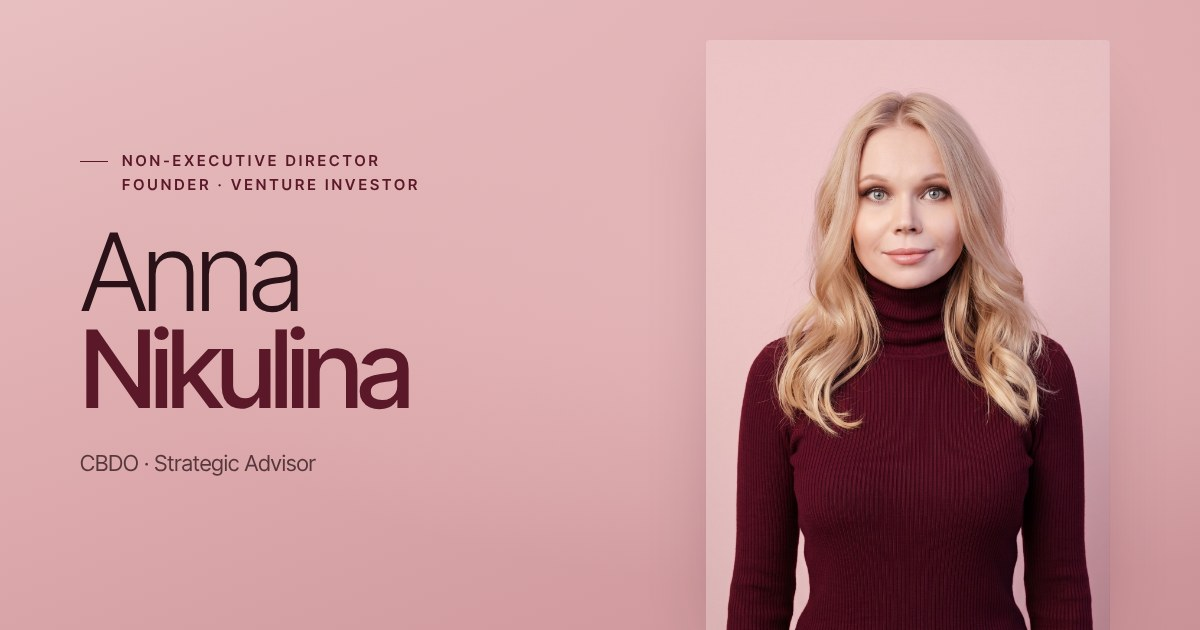
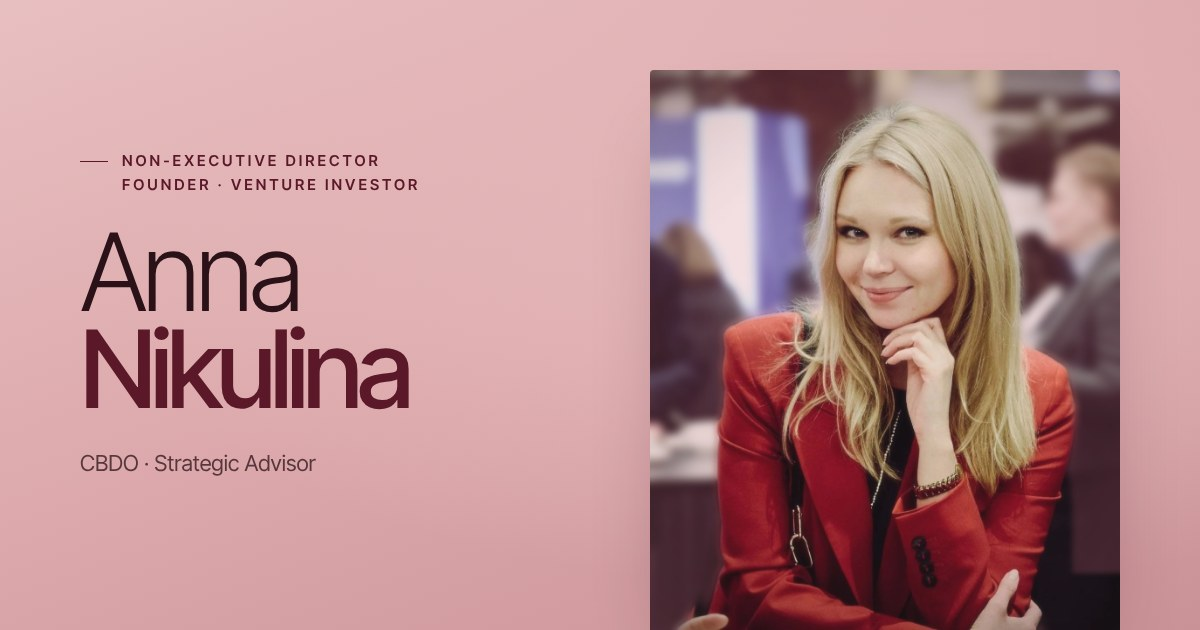
New portrait: event photo with light background blur and soft rose grade; original kept
Claude-Session: https://claude.ai/code/session_017zF6NKWSFQoNCEWFPX3gsG

Changed region(s): [[0.5242, 0.0905, 0.9558, 1.0]]

diff --git a/annanikulina/index.html b/annanikulina/index.html
@@ -24,7 +24,7 @@
 <link rel="me" href="https://www.youtube.com/@STRATEGYNikulina">
 <link rel="me" href="https://rutube.ru/channel/30327202">
 <link rel="sitemap" type="application/xml" href="https://www.annanikulina.pro/sitemap.xml">
-<script type="application/ld+json">{"@context":"https://schema.org","@graph":[{"@type":"ProfilePage","@id":"https://www.annanikulina.pro/annanikulina/#page","url":"https://www.annanikulina.pro/annanikulina/","name":"Анна Никулина | Независимый директор, Advisory Board, венчурный инвестор","description":"Анна Никулина: независимый директор, Advisory Board Member, венчурный инвестор. 13+ лет в банках ТОП-10 РФ. Корпоративное управление, риски, финтех, MENA.","inLanguage":"ru-RU","dateModified":"2026-11-23","isPartOf":{"@id":"https://www.annanikulina.pro/#website"},"mainEntity":{"@id":"https://www.annanikulina.pro/#person"},"primaryImageOfPage":"https://www.annanikulina.pro/assets/img/anna-portrait.jpg"},{"@type":"WebSite","@id":"https://www.annanikulina.pro/#website","url":"https://www.annanikulina.pro/","name":"Анна Никулина","inLanguage":["ru-RU","en-US"]},{"@type":"Person","@id":"https://www.annanikulina.pro/#person","name":"Анна Никулина","alternateName":["Anna Nikulina"],"givenName":"Анна","familyName":"Никулина","url":"https://www.annanikulina.pro/annanikulina/","image":"https://www.annanikulina.pro/assets/img/anna-portrait.jpg","description":"Анна Никулина: независимый директор, Advisory Board Member, венчурный инвестор. 13+ лет в банках ТОП-10 РФ. Корпоративное управление, риски, финтех, MENA.","jobTitle":["Независимый директор","Основатель","Advisory Board Member","Советник по стратегическому развитию","Директор по развитию","Венчурный инвестор"],"knowsAbout":["Корпоративное управление","Работа совета директоров","Независимый директор","Риск-менеджмент","Кредитные риски","Корпоративное кредитование","Антикризисное управление","Стратегическое развитие бизнеса","Венчурные инвестиции","Финтех","Краудфандинг","M&A","Due diligence","Цифровая трансформация","Рынок MENA","GR и регулирование"],"knowsLanguage":["ru","en"],"memberOf":{"@type":"Organization","name":"Ассоциация независимых директоров (АНД)"},"homeLocation":{"@type":"Place","name":"Москва"},"sameAs":["https://www.linkedin.com/in/anna-nikulina-cbdo/","https://t.me/STRATEGYNikulina","https://t.me/Anna_Niku","https://www.youtube.com/@STRATEGYNikulina","https://rutube.ru/channel/30327202"]},{"@type":"ItemList","name":"Видео","itemListElement":[{"@type":"ListItem","position":1,"item":{"@type":"VideoObject","name":"Субсидиарная ответственность членов СД и собственников","description":"Субсидиарная ответственность членов СД и собственников. Гость: Павел Викторов","embedUrl":"https://rutube.ru/play/embed/118d6fa9727639e5040512ae6d32b4be","url":"https://rutube.ru/video/118d6fa9727639e5040512ae6d32b4be/"}},{"@type":"ListItem","position":2,"item":{"@type":"VideoObject","name":"Революция роботов","description":"Революция роботов. Гость: Артём Лукин","embedUrl":"https://rutube.ru/play/embed/0f608d7f2b0e4aaa801a74142903122b","url":"https://rutube.ru/video/0f608d7f2b0e4aaa801a74142903122b/"}},{"@type":"ListItem","position":3,"item":{"@type":"VideoObject","name":"Дом как сервис","description":"Дом как сервис. Гость: Артём Бабинов","embedUrl":"https://rutube.ru/play/embed/82245c10c63797b9d4839cec6b54728c","url":"https://rutube.ru/video/82245c10c63797b9d4839cec6b54728c/"}},{"@type":"ListItem","position":4,"item":{"@type":"VideoObject","name":"За кулисами M&A","description":"За кулисами M&A. Гость: Иван Скавыш","embedUrl":"https://rutube.ru/play/embed/9c4bf61b043f1e9871b5e467088dbe60","url":"https://rutube.ru/video/9c4bf61b043f1e9871b5e467088dbe60/"}},{"@type":"ListItem","position":5,"item":{"@type":"VideoObject","name":"Стратегия загородной жизни","description":"Стратегия загородной жизни. Гость: Евгений Антифеев","embedUrl":"https://rutube.ru/play/embed/722f7eb517eb702874613efbd3f16c28","url":"https://rutube.ru/video/722f7eb517eb702874613efbd3f16c28/"}},{"@type":"ListItem","position":6,"item":{"@type":"VideoObject","name":"Искусственный интеллект: билет в будущее","description":"Искусственный интеллект: билет в будущее. Гость: Тимур Эль-Гохари","embedUrl":"https://rutube.ru/play/embed/aa2cad4c1103fe543607f4f6108b470c","url":"https://rutube.ru/video/aa2cad4c1103fe543607f4f6108b470c/"}},{"@type":"ListItem","position":7,"item":{"@type":"VideoObject","name":"Как вывести бизнес в Китай","description":"Как вывести бизнес в Китай. Гость: Виктор Соковнин","embedUrl":"https://rutube.ru/play/embed/4b83cb5bb370456e2c958657fe2ba707","url":"https://rutube.ru/video/4b83cb5bb370456e2c958657fe2ba707/"}}]}]}</script>
+<script type="application/ld+json">{"@context":"https://schema.org","@graph":[{"@type":"ProfilePage","@id":"https://www.annanikulina.pro/annanikulina/#page","url":"https://www.annanikulina.pro/annanikulina/","name":"Анна Никулина | Независимый директор, Advisory Board, венчурный инвестор","description":"Анна Никулина: независимый директор, Advisory Board Member, венчурный инвестор. 13+ лет в банках ТОП-10 РФ. Корпоративное управление, риски, финтех, MENA.","inLanguage":"ru-RU","dateModified":"2026-11-23","isPartOf":{"@id":"https://www.annanikulina.pro/#website"},"mainEntity":{"@id":"https://www.annanikulina.pro/#person"},"primaryImageOfPage":"https://www.annanikulina.pro/assets/img/anna-portrait-event.jpg"},{"@type":"WebSite","@id":"https://www.annanikulina.pro/#website","url":"https://www.annanikulina.pro/","name":"Анна Никулина","inLanguage":["ru-RU","en-US"]},{"@type":"Person","@id":"https://www.annanikulina.pro/#person","name":"Анна Никулина","alternateName":["Anna Nikulina"],"givenName":"Анна","familyName":"Никулина","url":"https://www.annanikulina.pro/annanikulina/","image":"https://www.annanikulina.pro/assets/img/anna-portrait-event.jpg","description":"Анна Никулина: независимый директор, Advisory Board Member, венчурный инвестор. 13+ лет в банках ТОП-10 РФ. Корпоративное управление, риски, финтех, MENA.","jobTitle":["Независимый директор","Основатель","Advisory Board Member","Советник по стратегическому развитию","Директор по развитию","Венчурный инвестор"],"knowsAbout":["Корпоративное управление","Работа совета директоров","Независимый директор","Риск-менеджмент","Кредитные риски","Корпоративное кредитование","Антикризисное управление","Стратегическое развитие бизнеса","Венчурные инвестиции","Финтех","Краудфандинг","M&A","Due diligence","Цифровая трансформация","Рынок MENA","GR и регулирование"],"knowsLanguage":["ru","en"],"memberOf":{"@type":"Organization","name":"Ассоциация независимых директоров (АНД)"},"homeLocation":{"@type":"Place","name":"Москва"},"sameAs":["https://www.linkedin.com/in/anna-nikulina-cbdo/","https://t.me/STRATEGYNikulina","https://t.me/Anna_Niku","https://www.youtube.com/@STRATEGYNikulina","https://rutube.ru/channel/30327202"]},{"@type":"ItemList","name":"Видео","itemListElement":[{"@type":"ListItem","position":1,"item":{"@type":"VideoObject","name":"Субсидиарная ответственность членов СД и собственников","description":"Субсидиарная ответственность членов СД и собственников. Гость: Павел Викторов","embedUrl":"https://rutube.ru/play/embed/118d6fa9727639e5040512ae6d32b4be","url":"https://rutube.ru/video/118d6fa9727639e5040512ae6d32b4be/"}},{"@type":"ListItem","position":2,"item":{"@type":"VideoObject","name":"Революция роботов","description":"Революция роботов. Гость: Артём Лукин","embedUrl":"https://rutube.ru/play/embed/0f608d7f2b0e4aaa801a74142903122b","url":"https://rutube.ru/video/0f608d7f2b0e4aaa801a74142903122b/"}},{"@type":"ListItem","position":3,"item":{"@type":"VideoObject","name":"Дом как сервис","description":"Дом как сервис. Гость: Артём Бабинов","embedUrl":"https://rutube.ru/play/embed/82245c10c63797b9d4839cec6b54728c","url":"https://rutube.ru/video/82245c10c63797b9d4839cec6b54728c/"}},{"@type":"ListItem","position":4,"item":{"@type":"VideoObject","name":"За кулисами M&A","description":"За кулисами M&A. Гость: Иван Скавыш","embedUrl":"https://rutube.ru/play/embed/9c4bf61b043f1e9871b5e467088dbe60","url":"https://rutube.ru/video/9c4bf61b043f1e9871b5e467088dbe60/"}},{"@type":"ListItem","position":5,"item":{"@type":"VideoObject","name":"Стратегия загородной жизни","description":"Стратегия загородной жизни. Гость: Евгений Антифеев","embedUrl":"https://rutube.ru/play/embed/722f7eb517eb702874613efbd3f16c28","url":"https://rutube.ru/video/722f7eb517eb702874613efbd3f16c28/"}},{"@type":"ListItem","position":6,"item":{"@type":"VideoObject","name":"Искусственный интеллект: билет в будущее","description":"Искусственный интеллект: билет в будущее. Гость: Тимур Эль-Гохари","embedUrl":"https://rutube.ru/play/embed/aa2cad4c1103fe543607f4f6108b470c","url":"https://rutube.ru/video/aa2cad4c1103fe543607f4f6108b470c/"}},{"@type":"ListItem","position":7,"item":{"@type":"VideoObject","name":"Как вывести бизнес в Китай","description":"Как вывести бизнес в Китай. Гость: Виктор Соковнин","embedUrl":"https://rutube.ru/play/embed/4b83cb5bb370456e2c958657fe2ba707","url":"https://rutube.ru/video/4b83cb5bb370456e2c958657fe2ba707/"}}]}]}</script>
 <meta property="og:title" content="Анна Никулина | Независимый директор, Advisory Board, венчурный инвестор">
 <meta property="og:description" content="Анна Никулина: независимый директор, Advisory Board Member, венчурный инвестор. 13+ лет в банках ТОП-10 РФ. Корпоративное управление, риски, финтех, MENA.">
 <meta property="og:url" content="https://www.annanikulina.pro/annanikulina/">
@@ -38,7 +38,7 @@
 <meta name="twitter:image" content="https://www.annanikulina.pro/assets/img/og-cover.jpg">
 <link rel="icon" href="../assets/img/favicon.svg" type="image/svg+xml">
 <link rel="preload" href="../assets/fonts/inter-tight-cyrillic-300-normal.woff2" as="font" type="font/woff2" crossorigin>
-<link rel="preload" as="image" href="../assets/img/anna-portrait.jpg">
+<link rel="preload" as="image" href="../assets/img/anna-portrait-event.jpg">
 <link rel="stylesheet" href="../assets/site.css">
 <script>document.documentElement.classList.add('js')</script>
 </head>
@@ -67,7 +67,7 @@
         </div>
       </div>
       <div class="photo reveal d2" data-speed="-0.2">
-        <img src="../assets/img/anna-portrait.jpg" alt="Анна Никулина" width="1368" height="2000" fetchpriority="high">
+        <img src="../assets/img/anna-portrait-event.jpg" alt="Анна Никулина" width="1075" height="1280" fetchpriority="high">
         <div class="photo-tag"><b>15+</b>лет в управлении</div>
       </div>
     </div>

diff --git a/en/index.html b/en/index.html
@@ -24,7 +24,7 @@
 <link rel="me" href="https://www.youtube.com/@STRATEGYNikulina">
 <link rel="me" href="https://rutube.ru/channel/30327202">
 <link rel="sitemap" type="application/xml" href="https://www.annanikulina.pro/sitemap.xml">
-<script type="application/ld+json">{"@context":"https://schema.org","@graph":[{"@type":"ProfilePage","@id":"https://www.annanikulina.pro/en/#page","url":"https://www.annanikulina.pro/en/","name":"Anna Nikulina | Non-Executive Director & Venture Investor","description":"Anna Nikulina: non-executive director, advisory board member, venture investor. 13+ years at top-10 Russian banks. Governance, risk, fintech, MENA.","inLanguage":"en-US","dateModified":"2026-11-23","isPartOf":{"@id":"https://www.annanikulina.pro/#website"},"mainEntity":{"@id":"https://www.annanikulina.pro/#person"},"primaryImageOfPage":"https://www.annanikulina.pro/assets/img/anna-portrait.jpg"},{"@type":"WebSite","@id":"https://www.annanikulina.pro/#website","url":"https://www.annanikulina.pro/","name":"Anna Nikulina","inLanguage":["ru-RU","en-US"]},{"@type":"Person","@id":"https://www.annanikulina.pro/#person","name":"Anna Nikulina","alternateName":["Анна Никулина"],"givenName":"Anna","familyName":"Nikulina","url":"https://www.annanikulina.pro/en/","image":"https://www.annanikulina.pro/assets/img/anna-portrait.jpg","description":"Anna Nikulina: non-executive director, advisory board member, venture investor. 13+ years at top-10 Russian banks. Governance, risk, fintech, MENA.","jobTitle":["Non-Executive Director","Founder","Advisory Board Member","Strategic Advisor","Chief Business Development Officer","Venture Investor"],"knowsAbout":["Corporate governance","Board of directors","Non-executive director","Risk management","Credit risk","Corporate lending","Crisis management","Business strategy","Venture capital","Fintech","Crowdfunding","Mergers and acquisitions","Due diligence","Digital transformation","MENA markets","Regulatory policy"],"knowsLanguage":["ru","en"],"memberOf":{"@type":"Organization","name":"Association of Independent Directors (AID), Russia"},"homeLocation":{"@type":"Place","name":"Moscow"},"sameAs":["https://www.linkedin.com/in/anna-nikulina-cbdo/","https://t.me/STRATEGYNikulina","https://t.me/Anna_Niku","https://www.youtube.com/@STRATEGYNikulina","https://rutube.ru/channel/30327202"]},{"@type":"ItemList","name":"Videos","itemListElement":[{"@type":"ListItem","position":1,"item":{"@type":"VideoObject","name":"Subsidiary liability of board members and owners","description":"Subsidiary liability of board members and owners. Guest: Pavel Viktorov","embedUrl":"https://www.youtube-nocookie.com/embed/cvLB6uWxBnk","url":"https://www.youtube.com/watch?v=cvLB6uWxBnk","thumbnailUrl":"https://i.ytimg.com/vi/cvLB6uWxBnk/hqdefault.jpg"}},{"@type":"ListItem","position":2,"item":{"@type":"VideoObject","name":"The robot revolution","description":"The robot revolution. Guest: Artem Lukin","embedUrl":"https://www.youtube-nocookie.com/embed/VuuB7uzdvwo","url":"https://www.youtube.com/watch?v=VuuB7uzdvwo","thumbnailUrl":"https://i.ytimg.com/vi/VuuB7uzdvwo/hqdefault.jpg"}},{"@type":"ListItem","position":3,"item":{"@type":"VideoObject","name":"Home as a service","description":"Home as a service. Guest: Artem Babinov","embedUrl":"https://www.youtube-nocookie.com/embed/n84INQQOz0Q","url":"https://www.youtube.com/watch?v=n84INQQOz0Q","thumbnailUrl":"https://i.ytimg.com/vi/n84INQQOz0Q/hqdefault.jpg"}},{"@type":"ListItem","position":4,"item":{"@type":"VideoObject","name":"Behind the scenes of M&A","description":"Behind the scenes of M&A. Guest: Ivan Skavysh","embedUrl":"https://www.youtube-nocookie.com/embed/jWN5XPts_jQ","url":"https://www.youtube.com/watch?v=jWN5XPts_jQ","thumbnailUrl":"https://i.ytimg.com/vi/jWN5XPts_jQ/hqdefault.jpg"}},{"@type":"ListItem","position":5,"item":{"@type":"VideoObject","name":"A strategy for country living","description":"A strategy for country living. Guest: Evgeny Antifeev","embedUrl":"https://www.youtube-nocookie.com/embed/KyPmCVrwbLU","url":"https://www.youtube.com/watch?v=KyPmCVrwbLU","thumbnailUrl":"https://i.ytimg.com/vi/KyPmCVrwbLU/hqdefault.jpg"}},{"@type":"ListItem","position":6,"item":{"@type":"VideoObject","name":"Artificial intelligence: a ticket to the future","description":"Artificial intelligence: a ticket to the future. Guest: Timur El-Gohary","embedUrl":"https://www.youtube-nocookie.com/embed/8VpxzIJPAVs","url":"https://www.youtube.com/watch?v=8VpxzIJPAVs","thumbnailUrl":"https://i.ytimg.com/vi/8VpxzIJPAVs/hqdefault.jpg"}},{"@type":"ListItem","position":7,"item":{"@type":"VideoObject","name":"How to expand your business into China","description":"How to expand your business into China. Guest: Viktor Sokovnin","embedUrl":"https://www.youtube-nocookie.com/embed/xlhwJ3_e-nw","url":"https://www.youtube.com/watch?v=xlhwJ3_e-nw","thumbnailUrl":"https://i.ytimg.com/vi/xlhwJ3_e-nw/hqdefault.jpg"}}]}]}</script>
+<script type="application/ld+json">{"@context":"https://schema.org","@graph":[{"@type":"ProfilePage","@id":"https://www.annanikulina.pro/en/#page","url":"https://www.annanikulina.pro/en/","name":"Anna Nikulina | Non-Executive Director & Venture Investor","description":"Anna Nikulina: non-executive director, advisory board member, venture investor. 13+ years at top-10 Russian banks. Governance, risk, fintech, MENA.","inLanguage":"en-US","dateModified":"2026-11-23","isPartOf":{"@id":"https://www.annanikulina.pro/#website"},"mainEntity":{"@id":"https://www.annanikulina.pro/#person"},"primaryImageOfPage":"https://www.annanikulina.pro/assets/img/anna-portrait-event.jpg"},{"@type":"WebSite","@id":"https://www.annanikulina.pro/#website","url":"https://www.annanikulina.pro/","name":"Anna Nikulina","inLanguage":["ru-RU","en-US"]},{"@type":"Person","@id":"https://www.annanikulina.pro/#person","name":"Anna Nikulina","alternateName":["Анна Никулина"],"givenName":"Anna","familyName":"Nikulina","url":"https://www.annanikulina.pro/en/","image":"https://www.annanikulina.pro/assets/img/anna-portrait-event.jpg","description":"Anna Nikulina: non-executive director, advisory board member, venture investor. 13+ years at top-10 Russian banks. Governance, risk, fintech, MENA.","jobTitle":["Non-Executive Director","Founder","Advisory Board Member","Strategic Advisor","Chief Business Development Officer","Venture Investor"],"knowsAbout":["Corporate governance","Board of directors","Non-executive director","Risk management","Credit risk","Corporate lending","Crisis management","Business strategy","Venture capital","Fintech","Crowdfunding","Mergers and acquisitions","Due diligence","Digital transformation","MENA markets","Regulatory policy"],"knowsLanguage":["ru","en"],"memberOf":{"@type":"Organization","name":"Association of Independent Directors (AID), Russia"},"homeLocation":{"@type":"Place","name":"Moscow"},"sameAs":["https://www.linkedin.com/in/anna-nikulina-cbdo/","https://t.me/STRATEGYNikulina","https://t.me/Anna_Niku","https://www.youtube.com/@STRATEGYNikulina","https://rutube.ru/channel/30327202"]},{"@type":"ItemList","name":"Videos","itemListElement":[{"@type":"ListItem","position":1,"item":{"@type":"VideoObject","name":"Subsidiary liability of board members and owners","description":"Subsidiary liability of board members and owners. Guest: Pavel Viktorov","embedUrl":"https://www.youtube-nocookie.com/embed/cvLB6uWxBnk","url":"https://www.youtube.com/watch?v=cvLB6uWxBnk","thumbnailUrl":"https://i.ytimg.com/vi/cvLB6uWxBnk/hqdefault.jpg"}},{"@type":"ListItem","position":2,"item":{"@type":"VideoObject","name":"The robot revolution","description":"The robot revolution. Guest: Artem Lukin","embedUrl":"https://www.youtube-nocookie.com/embed/VuuB7uzdvwo","url":"https://www.youtube.com/watch?v=VuuB7uzdvwo","thumbnailUrl":"https://i.ytimg.com/vi/VuuB7uzdvwo/hqdefault.jpg"}},{"@type":"ListItem","position":3,"item":{"@type":"VideoObject","name":"Home as a service","description":"Home as a service. Guest: Artem Babinov","embedUrl":"https://www.youtube-nocookie.com/embed/n84INQQOz0Q","url":"https://www.youtube.com/watch?v=n84INQQOz0Q","thumbnailUrl":"https://i.ytimg.com/vi/n84INQQOz0Q/hqdefault.jpg"}},{"@type":"ListItem","position":4,"item":{"@type":"VideoObject","name":"Behind the scenes of M&A","description":"Behind the scenes of M&A. Guest: Ivan Skavysh","embedUrl":"https://www.youtube-nocookie.com/embed/jWN5XPts_jQ","url":"https://www.youtube.com/watch?v=jWN5XPts_jQ","thumbnailUrl":"https://i.ytimg.com/vi/jWN5XPts_jQ/hqdefault.jpg"}},{"@type":"ListItem","position":5,"item":{"@type":"VideoObject","name":"A strategy for country living","description":"A strategy for country living. Guest: Evgeny Antifeev","embedUrl":"https://www.youtube-nocookie.com/embed/KyPmCVrwbLU","url":"https://www.youtube.com/watch?v=KyPmCVrwbLU","thumbnailUrl":"https://i.ytimg.com/vi/KyPmCVrwbLU/hqdefault.jpg"}},{"@type":"ListItem","position":6,"item":{"@type":"VideoObject","name":"Artificial intelligence: a ticket to the future","description":"Artificial intelligence: a ticket to the future. Guest: Timur El-Gohary","embedUrl":"https://www.youtube-nocookie.com/embed/8VpxzIJPAVs","url":"https://www.youtube.com/watch?v=8VpxzIJPAVs","thumbnailUrl":"https://i.ytimg.com/vi/8VpxzIJPAVs/hqdefault.jpg"}},{"@type":"ListItem","position":7,"item":{"@type":"VideoObject","name":"How to expand your business into China","description":"How to expand your business into China. Guest: Viktor Sokovnin","embedUrl":"https://www.youtube-nocookie.com/embed/xlhwJ3_e-nw","url":"https://www.youtube.com/watch?v=xlhwJ3_e-nw","thumbnailUrl":"https://i.ytimg.com/vi/xlhwJ3_e-nw/hqdefault.jpg"}}]}]}</script>
 <meta property="og:title" content="Anna Nikulina | Non-Executive Director &amp; Venture Investor">
 <meta property="og:description" content="Anna Nikulina: non-executive director, advisory board member, venture investor. 13+ years at top-10 Russian banks. Governance, risk, fintech, MENA.">
 <meta property="og:url" content="https://www.annanikulina.pro/en/">
@@ -38,7 +38,7 @@
 <meta name="twitter:image" content="https://www.annanikulina.pro/assets/img/og-cover.jpg">
 <link rel="icon" href="../assets/img/favicon.svg" type="image/svg+xml">
 <link rel="preload" href="../assets/fonts/inter-tight-latin-300-normal.woff2" as="font" type="font/woff2" crossorigin>
-<link rel="preload" as="image" href="../assets/img/anna-portrait.jpg">
+<link rel="preload" as="image" href="../assets/img/anna-portrait-event.jpg">
 <link rel="stylesheet" href="../assets/site.css">
 <script>document.documentElement.classList.add('js')</script>
 </head>
@@ -67,7 +67,7 @@
         </div>
       </div>
       <div class="photo reveal d2" data-speed="-0.2">
-        <img src="../assets/img/anna-portrait.jpg" alt="Anna Nikulina" width="1368" height="2000" fetchpriority="high">
+        <img src="../assets/img/anna-portrait-event.jpg" alt="Anna Nikulina" width="1075" height="1280" fetchpriority="high">
         <div class="photo-tag"><b>15+</b>years in leadership</div>
       </div>
     </div>

diff --git a/assets/site.css b/assets/site.css
@@ -89,7 +89,7 @@ ul{padding:0;list-style:none}
 .btn-ghost{border:1px solid var(--line-dark);color:var(--on-dark)}
 .btn-ghost:hover{border-color:var(--blush);color:var(--blush)}
 
-.photo{position:relative;justify-self:end;width:min(440px,100%);will-change:transform}
+.photo{position:relative;justify-self:end;width:min(510px,100%);will-change:transform}
 .photo img{width:100%;height:auto;border-radius:4px 4px 0 0;box-shadow:0 40px 80px -40px rgba(44,11,20,.45)}
 .photo-tag{position:absolute;left:-36px;bottom:18%;padding:16px 20px;background:rgba(251,246,243,.86);-webkit-backdrop-filter:blur(10px);backdrop-filter:blur(10px);border-radius:4px;box-shadow:0 20px 40px -20px rgba(44,11,20,.35);font-size:13px;line-height:1.35;color:var(--muted)}
 .photo-tag b{display:block;font-size:30px;font-weight:300;letter-spacing:-.03em;color:var(--wine);line-height:1}

diff --git a/tools/build.py b/tools/build.py
@@ -9,7 +9,7 @@ import datetime, html, json, os, re, sys
 
 ROOT = sys.argv[1] if len(sys.argv) > 1 else '.'
 BASE = 'https://www.annanikulina.pro'
-PORTRAIT = '../assets/img/anna-portrait.jpg'  # original photo, never edited
+PORTRAIT = '../assets/img/anna-portrait-event.jpg'  # retouched by request: light background blur, rose grade; original kept as anna-portrait-event-original.jpg
 OG_IMG = BASE + '/assets/img/og-cover.jpg'
 
 LINKEDIN = 'https://www.linkedin.com/in/anna-nikulina-cbdo/'
@@ -235,7 +235,7 @@ def json_ld(c, vids):
         'name': c['h1_1'] + ' ' + c['h1_2'],
         'alternateName': [other['h1_1'] + ' ' + other['h1_2']],
         'givenName': c['h1_1'], 'familyName': c['h1_2'],
-        'url': c['url'], 'image': BASE + '/assets/img/anna-portrait.jpg',
+        'url': c['url'], 'image': BASE + '/assets/img/anna-portrait-event.jpg',
         'description': c['description'],
         'jobTitle': c['job_titles'],
         'knowsAbout': c['knows_about'],
@@ -249,7 +249,7 @@ def json_ld(c, vids):
          'description': c['description'], 'inLanguage': 'ru-RU' if c['lang'] == 'ru' else 'en-US',
          'dateModified': datetime.date.today().isoformat(),
          'isPartOf': {'@id': BASE + '/#website'}, 'mainEntity': {'@id': BASE + '/#person'},
-         'primaryImageOfPage': BASE + '/assets/img/anna-portrait.jpg'},
+         'primaryImageOfPage': BASE + '/assets/img/anna-portrait-event.jpg'},
         {'@type': 'WebSite', '@id': BASE + '/#website', 'url': BASE + '/', 'name': c['h1_1'] + ' ' + c['h1_2'],
          'inLanguage': ['ru-RU', 'en-US']},
         person,
@@ -397,7 +397,7 @@ def page(c):
         </div>
       </div>
       <div class="photo reveal d2" data-speed="-0.2">
-        <img src="{PORTRAIT}" alt="{c['portrait_alt']}" width="1368" height="2000" fetchpriority="high">
+        <img src="{PORTRAIT}" alt="{c['portrait_alt']}" width="1075" height="1280" fetchpriority="high">
         <div class="photo-tag"><b>{c['tag_num']}</b>{c['tag_text']}</div>
       </div>
     </div>

diff --git a/CLAUDE.md b/CLAUDE.md
@@ -10,7 +10,7 @@
 - `annanikulina/index.html`, `en/index.html` — СГЕНЕРИРОВАННЫЕ файлы. Руками не править, пересобирать: `python3 tools/build.py .`
 - `assets/site.css` — дизайн. Палитра тон-в-тон с фото (оттенок 358°): фон первого экрана почти совпадает с фоном фото (#efcacb → #ebc4c5 → #d8adb2), пользователь просит держать их близкими, фон фото #ecc5c6, светлые блоки #fbf7f7 и #f6eeef, бордо #5a1828, тёмное вино #2c0b14, крем #fbf6f3. Шрифт Inter Tight (лежит в `assets/fonts/`). Без арок и антиквы: пользователю они не нравятся.
 - `assets/site.js` — параллакс (`data-speed` по вертикали, `data-x` по горизонтали, `data-fade`), сияние кнопок за курсором и звёздочки при наведении и клике (класс `glow`, слой `.sparkle-layer`); фоновые надписи мягкие (полупрозрачная заливка) и целиком в экране, появление блоков, меню, видео-плеер.
-- `assets/img/anna-portrait.jpg` — портрет 1368x2000. НЕ редактировать, не обрезать, не перекрашивать файл (требование пользователя).
+- Портрет на сайте: `assets/img/anna-portrait-event.jpg` (1075x1280): по просьбе пользователя слегка размыт фон и мягкая розово-винная цветокоррекция, лицо естественное. Оригинал: `anna-portrait-event-original.jpg`. Прежний портрет на розовом фоне: `anna-portrait.jpg` (его не редактировать). Пользователь не любит «ИИ-вид»: обработка должна быть минимальной и естественной.
 - `assets/img/og-cover.jpg` — превью для соцсетей 1200x630, `favicon.svg`.
 - Видео: `tools/fetch_videos.py` при каждой сборке на GitHub (и ежедневно) забирает списки роликов в `data/videos.json`: RU-страница показывает RuTube (YouTube в РФ работает с перебоями), EN-страница показывает YouTube. На сайте только полные выпуски (без тизеров и Shorts), ролик открывается во всплывающем плеере. С этого сервера YouTube и RuTube недоступны, список смотреть в логах GitHub Actions.
 - `index.html` в корне — редирект на `annanikulina/`.
